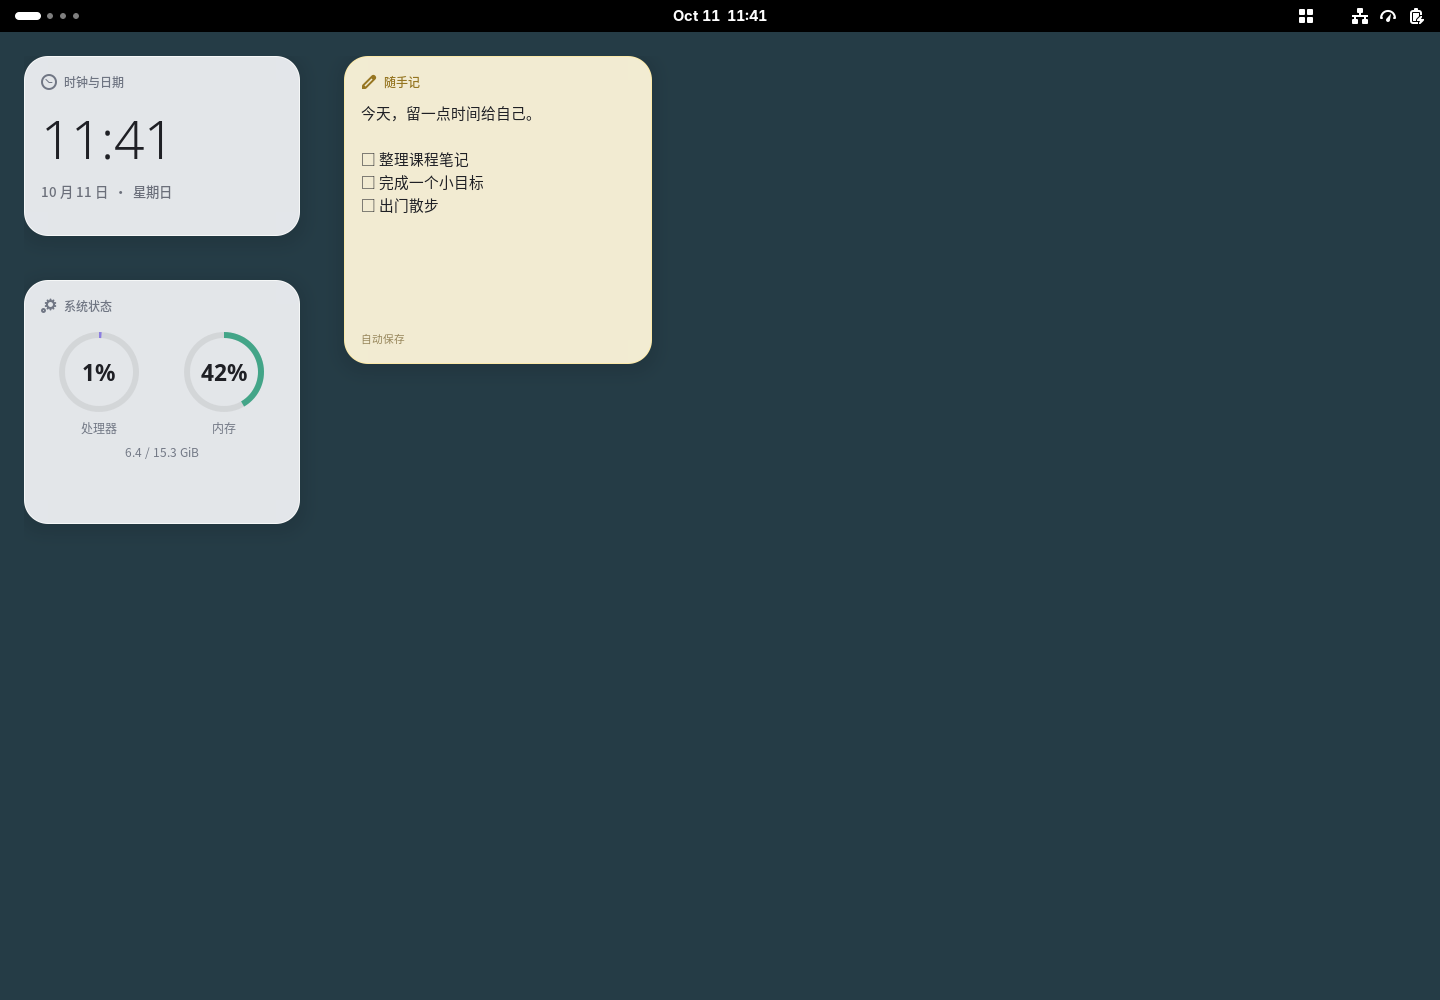
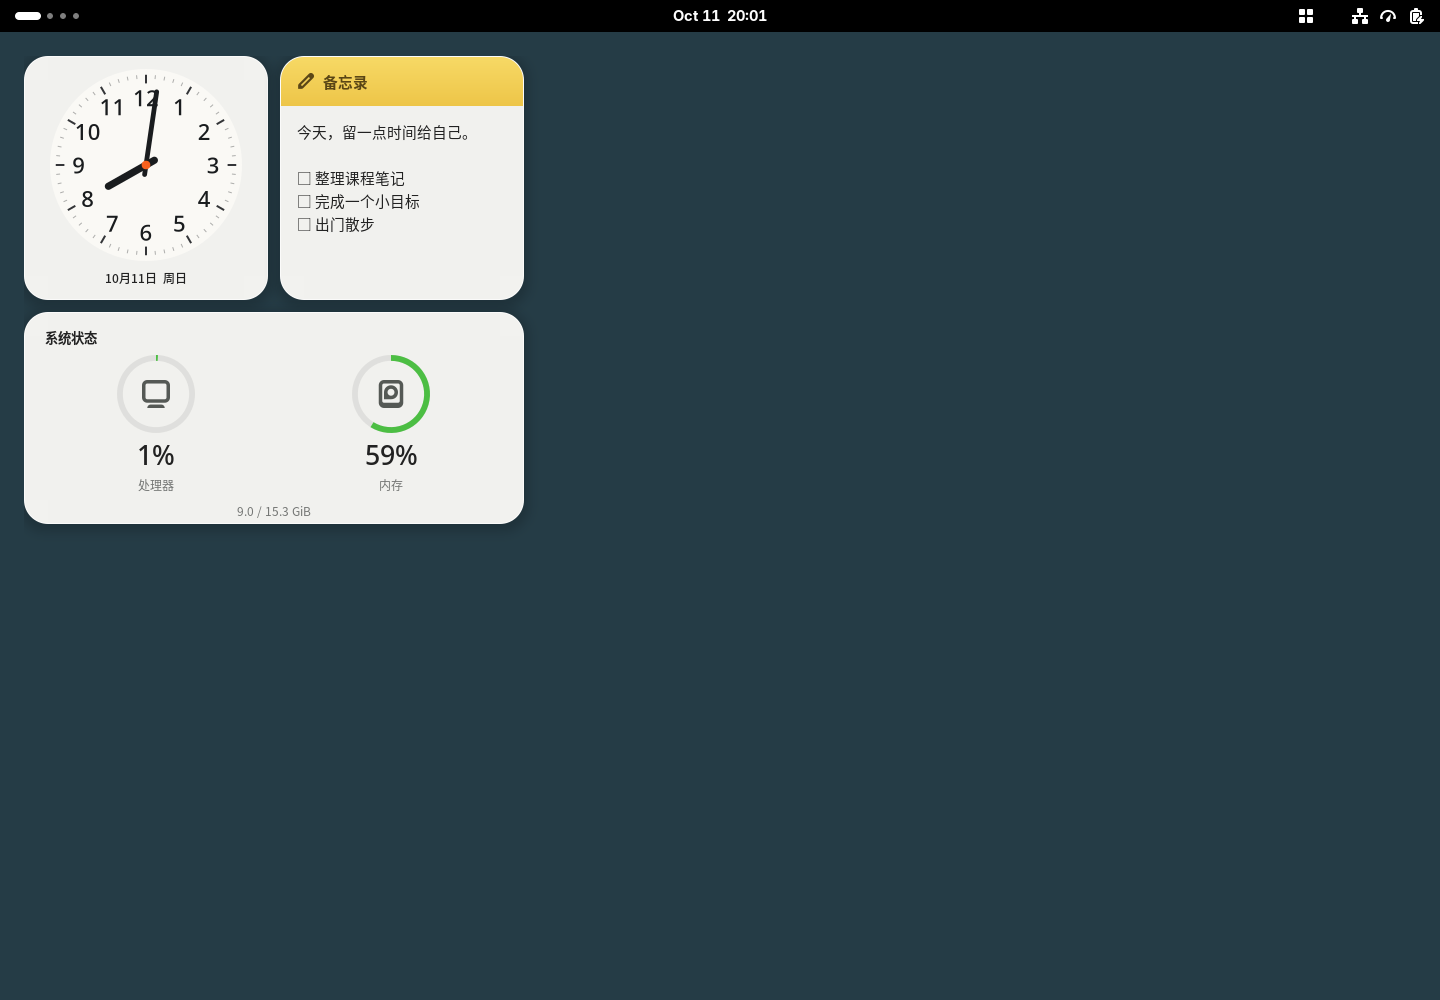
Redesign widgets with native macOS-inspired composition

diff --git a/widgets/index.js b/widgets/index.js
@@ -3,6 +3,8 @@ import Clutter from 'gi://Clutter';
 import GLib from 'gi://GLib';
 import Pango from 'gi://Pango';
 import St from 'gi://St';
+import PangoCairo from 'gi://PangoCairo';
+import Cairo from 'cairo';
 import {MAX_NOTE_LENGTH} from '../lib/layout.js';
 import {SystemSampler} from '../lib/system.js';
 
@@ -20,21 +22,69 @@ function label(text, style) {
 export function createWidget(type, settings, store) {
     const actor = column(`perch-content perch-${type}`);
     if (type === 'clock') {
-        const time = label('', 'perch-time');
+        const face = new St.DrawingArea({x_expand: true, y_expand: true, style_class: 'perch-clock-face'});
         const date = label('', 'perch-clock-date');
-        actor.add_child(time);
+        date.x_align = Clutter.ActorAlign.CENTER;
+        actor.add_child(face);
         actor.add_child(date);
+        const seconds = settings.get_boolean('show-seconds');
+        face.connect('repaint', area => {
+            const cr = area.get_context();
+            const [w, h] = area.get_surface_size();
+            const r = Math.max(1, Math.min(w, h) / 2 - 2);
+            cr.translate(w / 2, h / 2);
+            cr.setSourceRGB(0.98, 0.976, 0.96);
+            cr.arc(0, 0, r, 0, Math.PI * 2);
+            cr.fill();
+            for (let i = 0; i < 60; i++) {
+                const a = i * Math.PI / 30;
+                const major = i % 5 === 0;
+                cr.setSourceRGBA(0.12, 0.13, 0.14, major ? 0.9 : 0.35);
+                cr.setLineWidth(major ? 2 : 1);
+                cr.moveTo(Math.sin(a) * r * 0.94, -Math.cos(a) * r * 0.94);
+                cr.lineTo(Math.sin(a) * r * (major ? 0.85 : 0.9), -Math.cos(a) * r * (major ? 0.85 : 0.9));
+                cr.stroke();
+            }
+            const layout = PangoCairo.create_layout(cr);
+            const font = Pango.FontDescription.from_string('Noto Sans Medium');
+            font.set_absolute_size(r * 0.23 * Pango.SCALE);
+            layout.set_font_description(font);
+            cr.setSourceRGB(0.1, 0.11, 0.12);
+            for (let i = 1; i <= 12; i++) {
+                layout.set_text(String(i), -1);
+                const [tw, th] = layout.get_pixel_size();
+                const a = i * Math.PI / 6;
+                cr.moveTo(Math.sin(a) * r * 0.7 - tw / 2, -Math.cos(a) * r * 0.7 - th / 2);
+                PangoCairo.show_layout(cr, layout);
+            }
+            const now = GLib.DateTime.new_now_local();
+            const hand = (angle, length, width) => {
+                cr.setLineWidth(width);
+                cr.setLineCap(Cairo.LineCap.ROUND);
+                cr.moveTo(-Math.sin(angle) * r * 0.1, Math.cos(angle) * r * 0.1);
+                cr.lineTo(Math.sin(angle) * r * length, -Math.cos(angle) * r * length);
+                cr.stroke();
+            };
+            hand((now.get_hour() % 12 + now.get_minute() / 60) * Math.PI / 6, 0.45, r * 0.075);
+            hand((now.get_minute() + now.get_second() / 60) * Math.PI / 30, 0.77, r * 0.05);
+            cr.setSourceRGB(0.97, 0.38, 0.12);
+            if (seconds)
+                hand(now.get_second() * Math.PI / 30, 0.83, r * 0.018);
+            cr.arc(0, 0, r * 0.045, 0, Math.PI * 2);
+            cr.fill();
+            cr.$dispose();
+        });
         const update = () => {
             const now = GLib.DateTime.new_now_local();
-            time.text = now.format(settings.get_boolean('show-seconds') ? '%H:%M:%S' : '%H:%M');
-            time.set_style(settings.get_boolean('show-seconds') ? 'font-size: 26pt;' : null);
             const weekday = ['一', '二', '三', '四', '五', '六', '日'][now.get_day_of_week() - 1];
-            date.text = `${now.get_month()} 月 ${now.get_day_of_month()} 日  ·  星期${weekday}`;
+            date.text = `${now.get_month()}月${now.get_day_of_month()}日  周${weekday}`;
+            face.accessible_name = now.format('%H:%M:%S');
+            face.queue_repaint();
             return GLib.SOURCE_CONTINUE;
         };
         update();
-        const id = GLib.timeout_add_seconds(GLib.PRIORITY_DEFAULT, settings.get_boolean('show-seconds') ? 1 : 15, update);
-        return {actor, destroy() { GLib.Source.remove(id); }};
+        const id = GLib.timeout_add_seconds(GLib.PRIORITY_DEFAULT, seconds ? 1 : 15, update);
+        return {actor, date, destroy() { GLib.Source.remove(id); }};
     }
     if (type === 'note') {
         const entry = new St.Entry({
@@ -60,13 +110,19 @@ export function createWidget(type, settings, store) {
         const body = column();
         body.add_child(entry);
         scroll.set_child(body);
+        const heading = new St.BoxLayout({style_class: 'perch-note-heading'});
+        heading.add_child(new St.Icon({icon_name: 'document-edit-symbolic', icon_size: 18}));
+        heading.add_child(label('备忘录', 'perch-note-heading-text'));
+        actor.add_child(heading);
+        scroll.style_class = 'perch-note-paper';
         actor.add_child(scroll);
-        actor.add_child(label(store.writable ? '自动保存' : '只读保护 · 未覆盖原文件', 'perch-caption perch-note-status'));
+        if (!store.writable)
+            actor.add_child(label('只读保护 · 未覆盖原文件', 'perch-caption perch-note-status'));
         entry.clutter_text.connect('text-changed', () => {
             store.state.note = entry.get_text();
             store.changed();
         });
-        return {actor, destroy() {}};
+        return {actor, entry, destroy() {}};
     }
     const gauges = new St.BoxLayout({style_class: 'perch-gauges', x_expand: true});
     const cpu = gauge('处理器', 'perch-cpu');
@@ -74,6 +130,7 @@ export function createWidget(type, settings, store) {
     const detail = label('正在读取…', 'perch-caption');
     gauges.add_child(cpu.actor);
     gauges.add_child(ram.actor);
+    actor.add_child(label('系统状态', 'perch-system-title'));
     actor.add_child(gauges);
     actor.add_child(detail);
     detail.x_align = Clutter.ActorAlign.CENTER;
@@ -116,8 +173,9 @@ function gauge(title, style) {
         cr.$dispose();
     });
     dial.add_child(ring);
-    dial.add_child(value);
+    dial.add_child(new St.Icon({icon_name: style === 'perch-cpu' ? 'computer-chip-symbolic' : 'drive-harddisk-symbolic', icon_size: 28, x_align: Clutter.ActorAlign.CENTER, y_align: Clutter.ActorAlign.CENTER, style_class: 'perch-device-icon'}));
     actor.add_child(dial);
+    actor.add_child(value);
     const caption = label(title, 'perch-caption');
     caption.x_align = Clutter.ActorAlign.CENTER;
     actor.add_child(caption);

diff --git a/stylesheet.css b/stylesheet.css
@@ -1,44 +1,38 @@
-/* St takes a single family; explicitly select Simplified Chinese glyphs. */
+/* Simplified Chinese regional forms, scoped to Perch. */
 .perch-desktop { font-family: "Noto Sans CJK SC"; }
-.perch-card { border-radius: 24px; padding: 16px; spacing: 10px; border: 1px solid rgba(255,255,255,0.09); }
-.perch-dark .perch-card { background-color: #24262b; color: #f5f5f7; box-shadow: 0 4px 14px 0 rgba(0,0,0,0.16); }
-.perch-light .perch-card { background-color: #f9f9fb; color: #202126; box-shadow: 0 4px 14px 0 rgba(0,0,0,0.10); border-color: rgba(255,255,255,0.65); }
-.perch-dark.perch-translucent .perch-card { background-color: rgba(32,35,41,0.88); }
-.perch-light.perch-translucent .perch-card { background-color: rgba(248,249,252,0.90); }
-.perch-dark .perch-card-note { background-color: #343028; }
-.perch-light .perch-card-note { background-color: #fff8df; border-color: rgba(255,233,159,0.8); }
-.perch-dark.perch-translucent .perch-card-note { background-color: rgba(52,47,35,0.92); }
-.perch-light.perch-translucent .perch-card-note { background-color: rgba(255,247,219,0.94); }
-.perch-header { spacing: 7px; border-radius: 7px; }
-.perch-header:focus { box-shadow: inset 0 0 0 2px #75abed; }
-.perch-title { font-size: 9pt; font-weight: 500; color: #a2a7b3; }
-.perch-muted { color: #9096a4; }
-.perch-light .perch-title, .perch-light .perch-muted { color: #707684; }
-.perch-card-note .perch-title, .perch-card-note .perch-muted { color: #dfb854; }
-.perch-light .perch-card-note .perch-title, .perch-light .perch-card-note .perch-muted { color: #977622; }
-.perch-caption { font-size: 9pt; color: #a0a5b0; }
-.perch-light .perch-caption { color: #737987; }
-.perch-content { spacing: 6px; }
-.perch-clock { padding-top: 0; }
-.perch-time { font-family: "Noto Sans"; font-size: 40pt; font-weight: 300; font-feature-settings: "tnum"; }
-.perch-editing .perch-time { font-size: 34pt; }
-.perch-clock-date { font-size: 10pt; font-weight: 500; color: #d0d3dc; }
-.perch-light .perch-clock-date { color: #6c707b; }
-.perch-gauges { spacing: 8px; padding-top: 7px; }
-.perch-gauge { spacing: 7px; }
-.perch-ring { width: 80px; height: 80px; }
-.perch-cpu .perch-ring { color: #9d96ee; }
-.perch-memory .perch-ring { color: #6acbac; }
-.perch-light .perch-cpu .perch-ring { color: #8b7de0; }
-.perch-light .perch-memory .perch-ring { color: #43a588; }
-.perch-gauge-value { font-family: "Noto Sans"; font-size: 17pt; font-weight: 600; }
+.perch-card { border-radius: 24px; border: 1px solid rgba(255,255,255,0.14); box-shadow: 0 3px 10px 0 rgba(0,0,0,0.18); }
+.perch-dark .perch-card { background-color: #242526; color: #f5f5f5; }
+.perch-light .perch-card { background-color: #faf9f6; color: #232323; border-color: rgba(255,255,255,0.7); }
+.perch-dark.perch-translucent .perch-card { background-color: rgba(35,36,37,0.94); }
+.perch-light.perch-translucent .perch-card { background-color: rgba(250,249,246,0.96); }
+.perch-content { spacing: 8px; padding: 16px; }
+.perch-clock { padding: 10px 10px 12px; spacing: 6px; }
+.perch-clock-face { min-height: 70px; }
+.perch-clock-date { font-size: 9pt; font-weight: 500; }
+.perch-note { padding: 0; spacing: 0; }
+.perch-note-heading { background-gradient-direction: vertical; background-gradient-start: #f7d965; background-gradient-end: #edc548; color: #5b4716; border-radius: 23px 23px 0 0; padding: 13px 16px; spacing: 8px; }
+.perch-note-heading-text { font-size: 11pt; font-weight: 700; }
+.perch-note-paper { padding: 14px 16px; }
 .perch-note-entry { padding: 0; border: none; border-radius: 0; box-shadow: none; background-color: transparent; color: inherit; font-size: 11pt; }
 .perch-note-entry:focus { border: none; box-shadow: none; background-color: transparent; }
-.perch-note-status { font-size: 8pt; color: #aaa085; }
-.perch-light .perch-note-status { color: #98875b; }
+.perch-note-status { padding: 0 16px 10px; }
+.perch-system { padding: 14px 20px; spacing: 8px; }
+.perch-system-title { font-size: 10pt; font-weight: 600; }
+.perch-gauges { spacing: 12px; }
+.perch-gauge { spacing: 3px; }
+.perch-ring { width: 78px; height: 78px; color: #69d75b; }
+.perch-light .perch-ring { color: #4cbe43; }
+.perch-device-icon { color: #d6d8d6; }
+.perch-light .perch-device-icon { color: #555955; }
+.perch-gauge-value { font-family: "Noto Sans"; font-size: 20pt; font-weight: 500; }
+.perch-caption { font-size: 9pt; color: #a4a5a5; }
+.perch-light .perch-caption { color: #747674; }
+.perch-header { background-color: rgba(36,43,54,0.94); color: #ffffff; spacing: 6px; padding: 7px 10px; border-radius: 18px; margin: 5px; }
+.perch-title { font-size: 9pt; font-weight: 500; }
+.perch-header:focus { box-shadow: inset 0 0 0 2px #83b6f6; }
+.perch-grip { color: #b8d7ff; }
+.perch-resize { color: #fff; background-color: #465a73; border-radius: 10px; padding: 6px; margin: 5px; min-width: 14px; min-height: 14px; }
+.perch-resize:focus { background-color: #547eb3; }
 .perch-edit-mode { background-color: rgba(18,22,30,0.13); border-radius: 14px; }
-.perch-card.perch-editing { border: 1px solid rgba(117,171,237,0.8); }
-.perch-card.perch-dragging { border: 1px solid #b9d6ff; box-shadow: 0 6px 18px 0 rgba(0,0,0,0.24); }
-.perch-grip, .perch-resize { color: #8bb8ef; }
-.perch-resize { border-radius: 6px; padding: 3px; min-width: 18px; min-height: 14px; }
-.perch-resize:focus { background-color: rgba(120,174,237,0.22); }
+.perch-card.perch-editing { border-color: #83b6f6; }
+.perch-card.perch-dragging { border-color: #c1dcff; box-shadow: 0 6px 18px 0 rgba(0,0,0,0.24); }

diff --git a/lib/card.js b/lib/card.js
@@ -9,19 +9,19 @@ export class Card {
         this.type = type;
         this._onChange = onChange;
         this._editing = false;
-        this.actor = new St.BoxLayout({
-            orientation: Clutter.Orientation.VERTICAL,
+        this.actor = new St.Widget({
+            layout_manager: new Clutter.BinLayout(),
             style_class: `perch-card perch-card-${type}`,
         });
-        this._header = new St.BoxLayout({reactive: true, can_focus: true, style_class: 'perch-header', accessible_name: `${TITLES[type]}：编辑模式下拖动或用方向键移动，Shift 加方向键缩放`});
+        this._header = new St.BoxLayout({reactive: true, can_focus: true, y_align: Clutter.ActorAlign.START, y_expand: true, x_expand: true, style_class: 'perch-header', accessible_name: `${TITLES[type]}：编辑模式下拖动或用方向键移动，Shift 加方向键缩放`});
         this._header.add_child(new St.Icon({icon_name: ICONS[type], icon_size: 16, style_class: 'perch-muted'}));
         this._header.add_child(new St.Label({text: TITLES[type], x_expand: true, style_class: 'perch-title'}));
         this._grip = new St.Label({text: '⠿', style_class: 'perch-grip'});
         this._header.add_child(this._grip);
-        this.actor.add_child(this._header);
         this._widget = createWidget(type, settings, store);
         this.actor.add_child(this._widget.actor);
-        this._resize = new St.BoxLayout({reactive: true, can_focus: true, x_align: Clutter.ActorAlign.END, style_class: 'perch-resize', accessible_name: `调整${TITLES[type]}大小`});
+        this.actor.add_child(this._header);
+        this._resize = new St.BoxLayout({reactive: true, can_focus: true, x_expand: true, y_expand: true, x_align: Clutter.ActorAlign.END, y_align: Clutter.ActorAlign.END, style_class: 'perch-resize', accessible_name: `调整${TITLES[type]}大小`});
         this._resize.add_child(new St.Icon({icon_name: 'view-fullscreen-symbolic', icon_size: 12}));
         this.actor.add_child(this._resize);
         this._gestures = [];
@@ -95,6 +95,7 @@ export class Card {
     setEditing(editing) {
         this.cancelDrag();
         this._editing = editing;
+        this._header.visible = editing;
         this._grip.visible = editing;
         this._resize.visible = editing;
         this._header.can_focus = editing;

diff --git a/tests/shell-harness.js b/tests/shell-harness.js
@@ -63,11 +63,10 @@ export default class TestPerch extends Perch {
         assert(this._desktop.actor.get_parent() === global.window_group, 'wrong desktop layer');
         this._settings.set_string('theme', 'dark');
         await delay(350);
-        const note = this._desktop.cards.get('note')._widget.actor;
-        const entry = note.get_first_child().get_child().get_first_child();
+        const entry = this._desktop.cards.get('note')._widget.entry;
         entry.set_text('今天，留一点时间给自己。\n\n□ 整理课程笔记\n□ 完成一个小目标\n□ 出门散步');
         await delay(3500);
-        const fonts = checkFonts([entry.clutter_text, this._desktop.cards.get('clock')._header.get_child_at_index(1).clutter_text]);
+        const fonts = checkFonts([entry.clutter_text, this._desktop.cards.get('clock')._widget.date.clutter_text]);
         await screenshot('desktop-dark');
         this._indicator.menu.open();
         await delay(300);
@@ -80,6 +79,9 @@ export default class TestPerch extends Perch {
         await delay(300);
         assert(this._desktop.actor.get_parent() === Main.layoutManager.uiGroup, 'edit mode not raised');
         await screenshot('edit-mode');
+        // Make one free grid cell for the drag and resize interaction checks.
+        const noteRect = this._desktop.cards.get('note').rect;
+        assert(this._desktop.change('note', {...noteRect, x: noteRect.x + 1}, true), 'test space unavailable');
         const card = this._desktop.cards.get('clock');
         const initial = {...card.rect};
         const seat = global.stage.context.get_backend().get_default_seat();

diff --git a/prefs.js b/prefs.js
@@ -35,7 +35,7 @@ export default class PerchPreferences extends ExtensionPreferences {
         const widgets = new Adw.PreferencesGroup({title: '桌面组件', description: '关闭组件会保留便签内容和布局。'});
         page.add(widgets);
         addSwitch(widgets, 'show-clock', '时钟与日期');
-        addSwitch(widgets, 'show-seconds', '显示秒数');
+        addSwitch(widgets, 'show-seconds', '显示秒针');
         addSwitch(widgets, 'show-note', '随手记');
         addSwitch(widgets, 'show-system', '系统状态');
         const interval = new Adw.SpinRow({title: '系统监控刷新间隔', subtitle: '单位：秒', adjustment: new Gtk.Adjustment({lower: 2, upper: 30, step_increment: 1, page_increment: 5})});

diff --git a/lib/layout.js b/lib/layout.js
@@ -8,9 +8,9 @@ export function defaultState() {
         version: 1,
         layoutReset: 0,
         layout: {
-            clock: {x: 0, y: 0, w: 9, h: 6},
-            note: {x: 10, y: 0, w: 10, h: 10},
-            system: {x: 0, y: 7, w: 9, h: 8},
+            clock: {x: 0, y: 0, w: 8, h: 8},
+            note: {x: 8, y: 0, w: 8, h: 8},
+            system: {x: 0, y: 8, w: 16, h: 7},
         },
         note: '',
     };

diff --git a/README.md b/README.md
@@ -2,9 +2,9 @@
 
 为 GNOME Shell 51 创建的轻量桌面组件扩展。中文界面，独立实现，GPL-3.0-only。
 
-**当前版本：0.1.0-alpha.2。** 主屏首版；测试范围见 [验证记录](docs/VALIDATION.md)。
+**当前版本：0.1.0-alpha.3。** 主屏首版；测试范围见 [验证记录](docs/VALIDATION.md)。
 
-![Perch 深色桌面](docs/screenshots/desktop-dark.png)
+![Perch 浅色桌面](docs/screenshots/after-reenable.png)
 
 上图为隔离 GNOME 51 会话中的实际渲染；便签使用测试文字。
 
@@ -14,8 +14,9 @@
 - 从顶栏开关组件；隐藏便签保留内容。
 - 编辑模式将组件临时移到窗口上方，支持标题拖拽、右下角缩放、网格吸附和碰撞约束。
 - 编辑时聚焦组件标题，方向键移动，Shift + 方向键缩放；Esc 结束编辑。
-- 明暗主题、跟随系统、半透明背景、秒数开关、监控刷新间隔。
-- 参考 macOS 桌面组件的柔和圆角、轻量标题、暖黄色便签与双环系统指标。
+- 明暗主题、跟随系统、半透明背景、秒针开关、监控刷新间隔。
+- 参考 macOS 原生组件重新设计：完整指针钟面、黄色页眉备忘录、绿色设备状态环；普通状态隐藏编辑工具栏。
+- 新布局采用两张方形组件和下方横向状态组件，间距 12 像素。升级保留旧布局，可在设置中重置布局采用新排列，便签内容保留。
 - 卡片、菜单和设置明确使用简体中文区域字体，避免日韩字形回退。
 - 屏幕尺寸变化后重新排布，放不下的组件暂时隐藏，保留原位置。
 - 本地原子保存；未知数据版本或损坏文件进入保护状态，不覆盖原文件。

diff --git a/docs/VALIDATION.md b/docs/VALIDATION.md
@@ -1,6 +1,16 @@
 # 首版验证记录
 
-日期：2026-10-11。当前目标：`0.1.0-alpha.2`。
+日期：2026-10-11。当前目标：`0.1.0-alpha.3`。
+
+## alpha.3 原生组件风格重构
+
+- 使用 Cairo/Pango 绘制真实本地时间的指针钟面；秒针开关沿用既有设置键。
+- 备忘录增加黄色页眉，正文保持直接输入和自动保存；正常状态隐藏通用工具栏。
+- 系统环采用绿色、中央设备图标和下方百分比，继续读取真实 CPU/内存数据。
+- 新安装与重置使用紧凑默认布局；不迁移或覆盖已保存的自定义位置。
+- 最终隔离 Shell 驱动结果 `PASS`；静态检查、布局/指标单元测试与 GJS 持久化测试通过。
+- 隔离 GNOME 51 会话验证明暗渲染、中文字体、拖动、缩放、键盘输入、持久化、三次启停、重置及设置窗口。截图便签为测试内容。
+- 设计参照 [Apple 桌面组件说明](https://support.apple.com/en-gb/guide/mac-help/mchl52be5da5/mac) 与 [Apple 备忘录组件说明](https://support.apple.com/en-ca/guide/notes/apdc28344070/mac)。独立绘制，没有打包 Apple 字体或图像；并非逐像素复刻或真实背景模糊。
 
 ## alpha.2 字体和外观复测
 

diff --git a/CHANGELOG.md b/CHANGELOG.md
@@ -1,3 +1,12 @@
+# 更新记录
+
+## 0.1.0-alpha.3 — 2026-10-11
+
+- 重新设计组件结构：指针钟面与可选秒针、黄色渐变备忘录页眉、绿色图标状态环。
+- 普通模式隐藏通用标题和缩放柄；编辑控件叠加显示，不挤压内容。
+- 新默认布局统一圆角和 12 像素间距；兼容已有布局与便签。
+- 保留简体中文区域字体修复，更新隔离 Shell 交互及截图验证。
+
 # Changelog
 
 ## 0.1.0-alpha.2 — 2026-10-11
